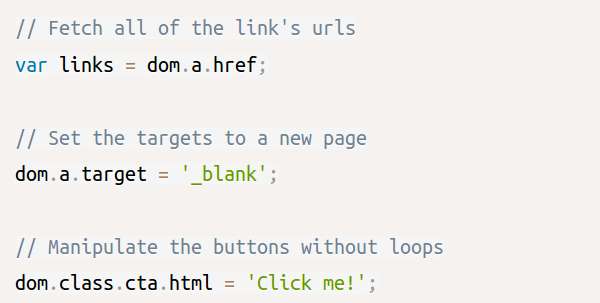
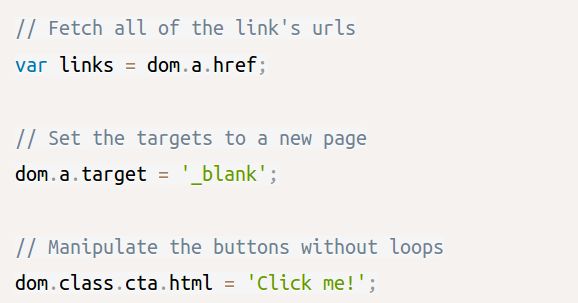
Better size image

diff --git a/index.html b/index.html
@@ -6,7 +6,7 @@
     <meta name='viewport', content='width=device-width, initial-scale=1'>
     <meta name="keywords" content="js, library, dom, superdom, manipulate">
     <meta name="description" content="A lightweight DOM manipulation library">
-    <meta property="og:image" content="http://superdom.site/web/example.png">
+    <meta property="og:image" content="http://superdom.site/web/example.png?1">
     <meta property="og:url" content="http://superdom.site">
     <meta property="og:title" content="Superdom.js">
     <meta property="og:description" content="A lightweight library to access and manipulate the DOM of your webpage">
